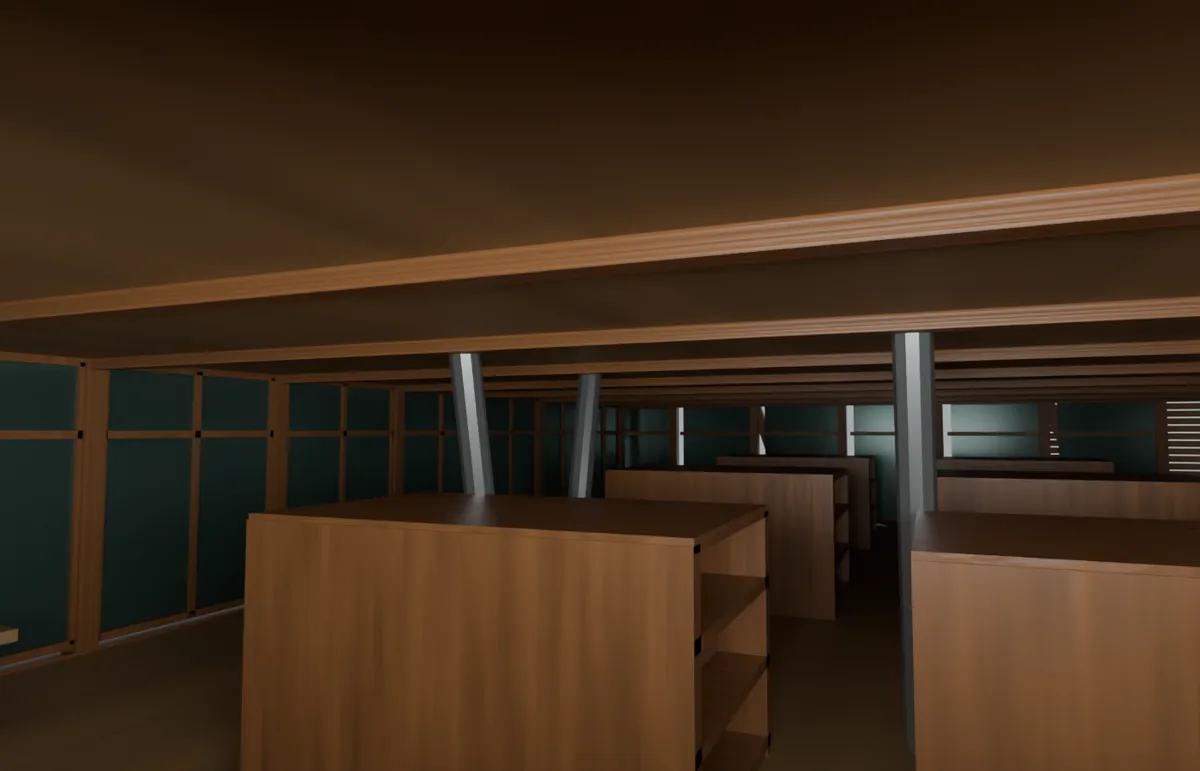
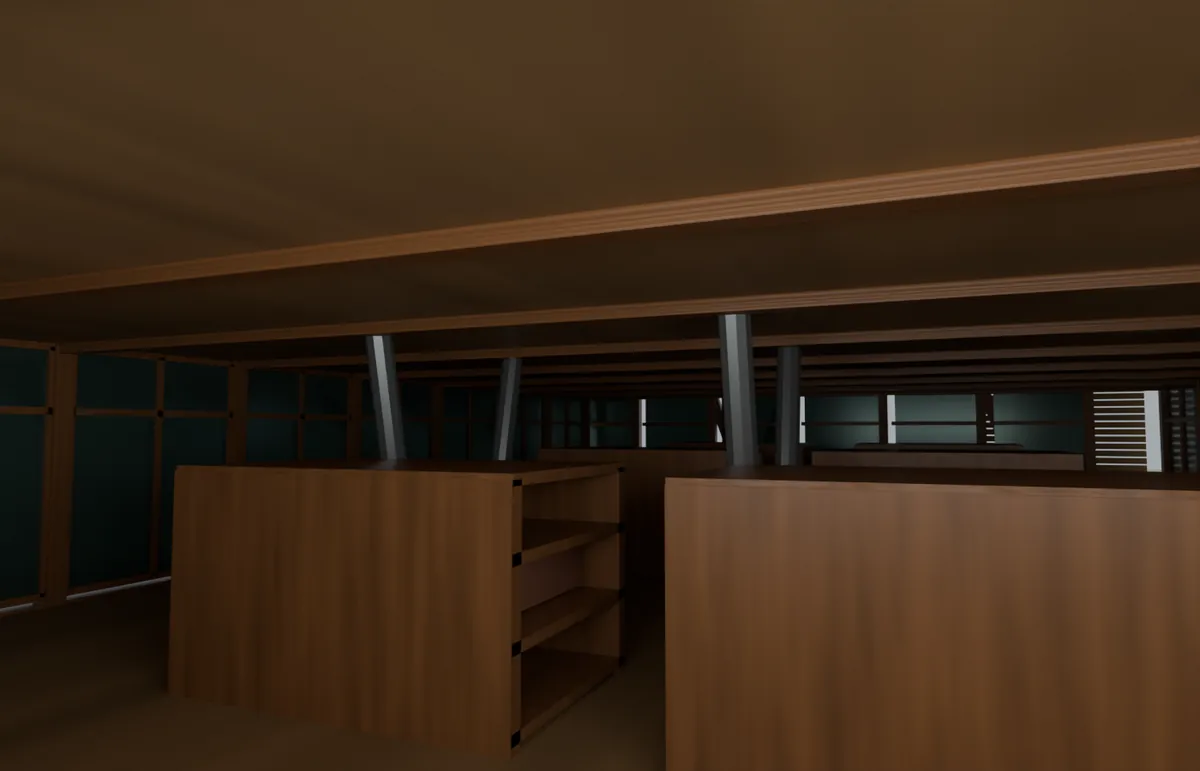
修正東向裁切與主梯遮擋，刪除多餘敘述
外觀框景原本把平台與外梯歸入場地而排除，東向因此裁掉右側外梯，
改為納入建築本體計算。

主梯原本的視點正對柱體，看不到挑空。查出挑空開口實際位置後改以
注視點定義相機，自二層俯看開口，樓梯與周邊書架均可見。相機座標
自第三版起共用同一原點，先前誤用含地形的包圍盒換算而偏移，改以
建築本體包圍盒判斷；第三版室內配置不同，該視點落在玻璃內，另指
定可用位置。室內補光改置於相機與注視點之間並調降強度。

刪除成果圖說明中「未經修圖」等自證文字。

diff --git a/index.html b/index.html
@@ -117,7 +117,7 @@ button[aria-pressed="true"]{background:var(--ink);border-color:var(--ink);color:
 <p class="note">適用範圍不含測繪、結構與法規檢核及施工圖說。</p>
 
 <h2>成果圖</h2>
-<p class="lead">五個版本以相同視點輸出，可逐項比對同一位置在各階段的差異。外觀為接近地面的視點，室內、剖面與平面取自模型本身，未經修圖。</p>
+<p class="lead">五個版本以相同視點輸出，可逐項比對同一位置在各階段的差異。</p>
 
 <h3>第一版（第一日）</h3>
 <div class="gal">
